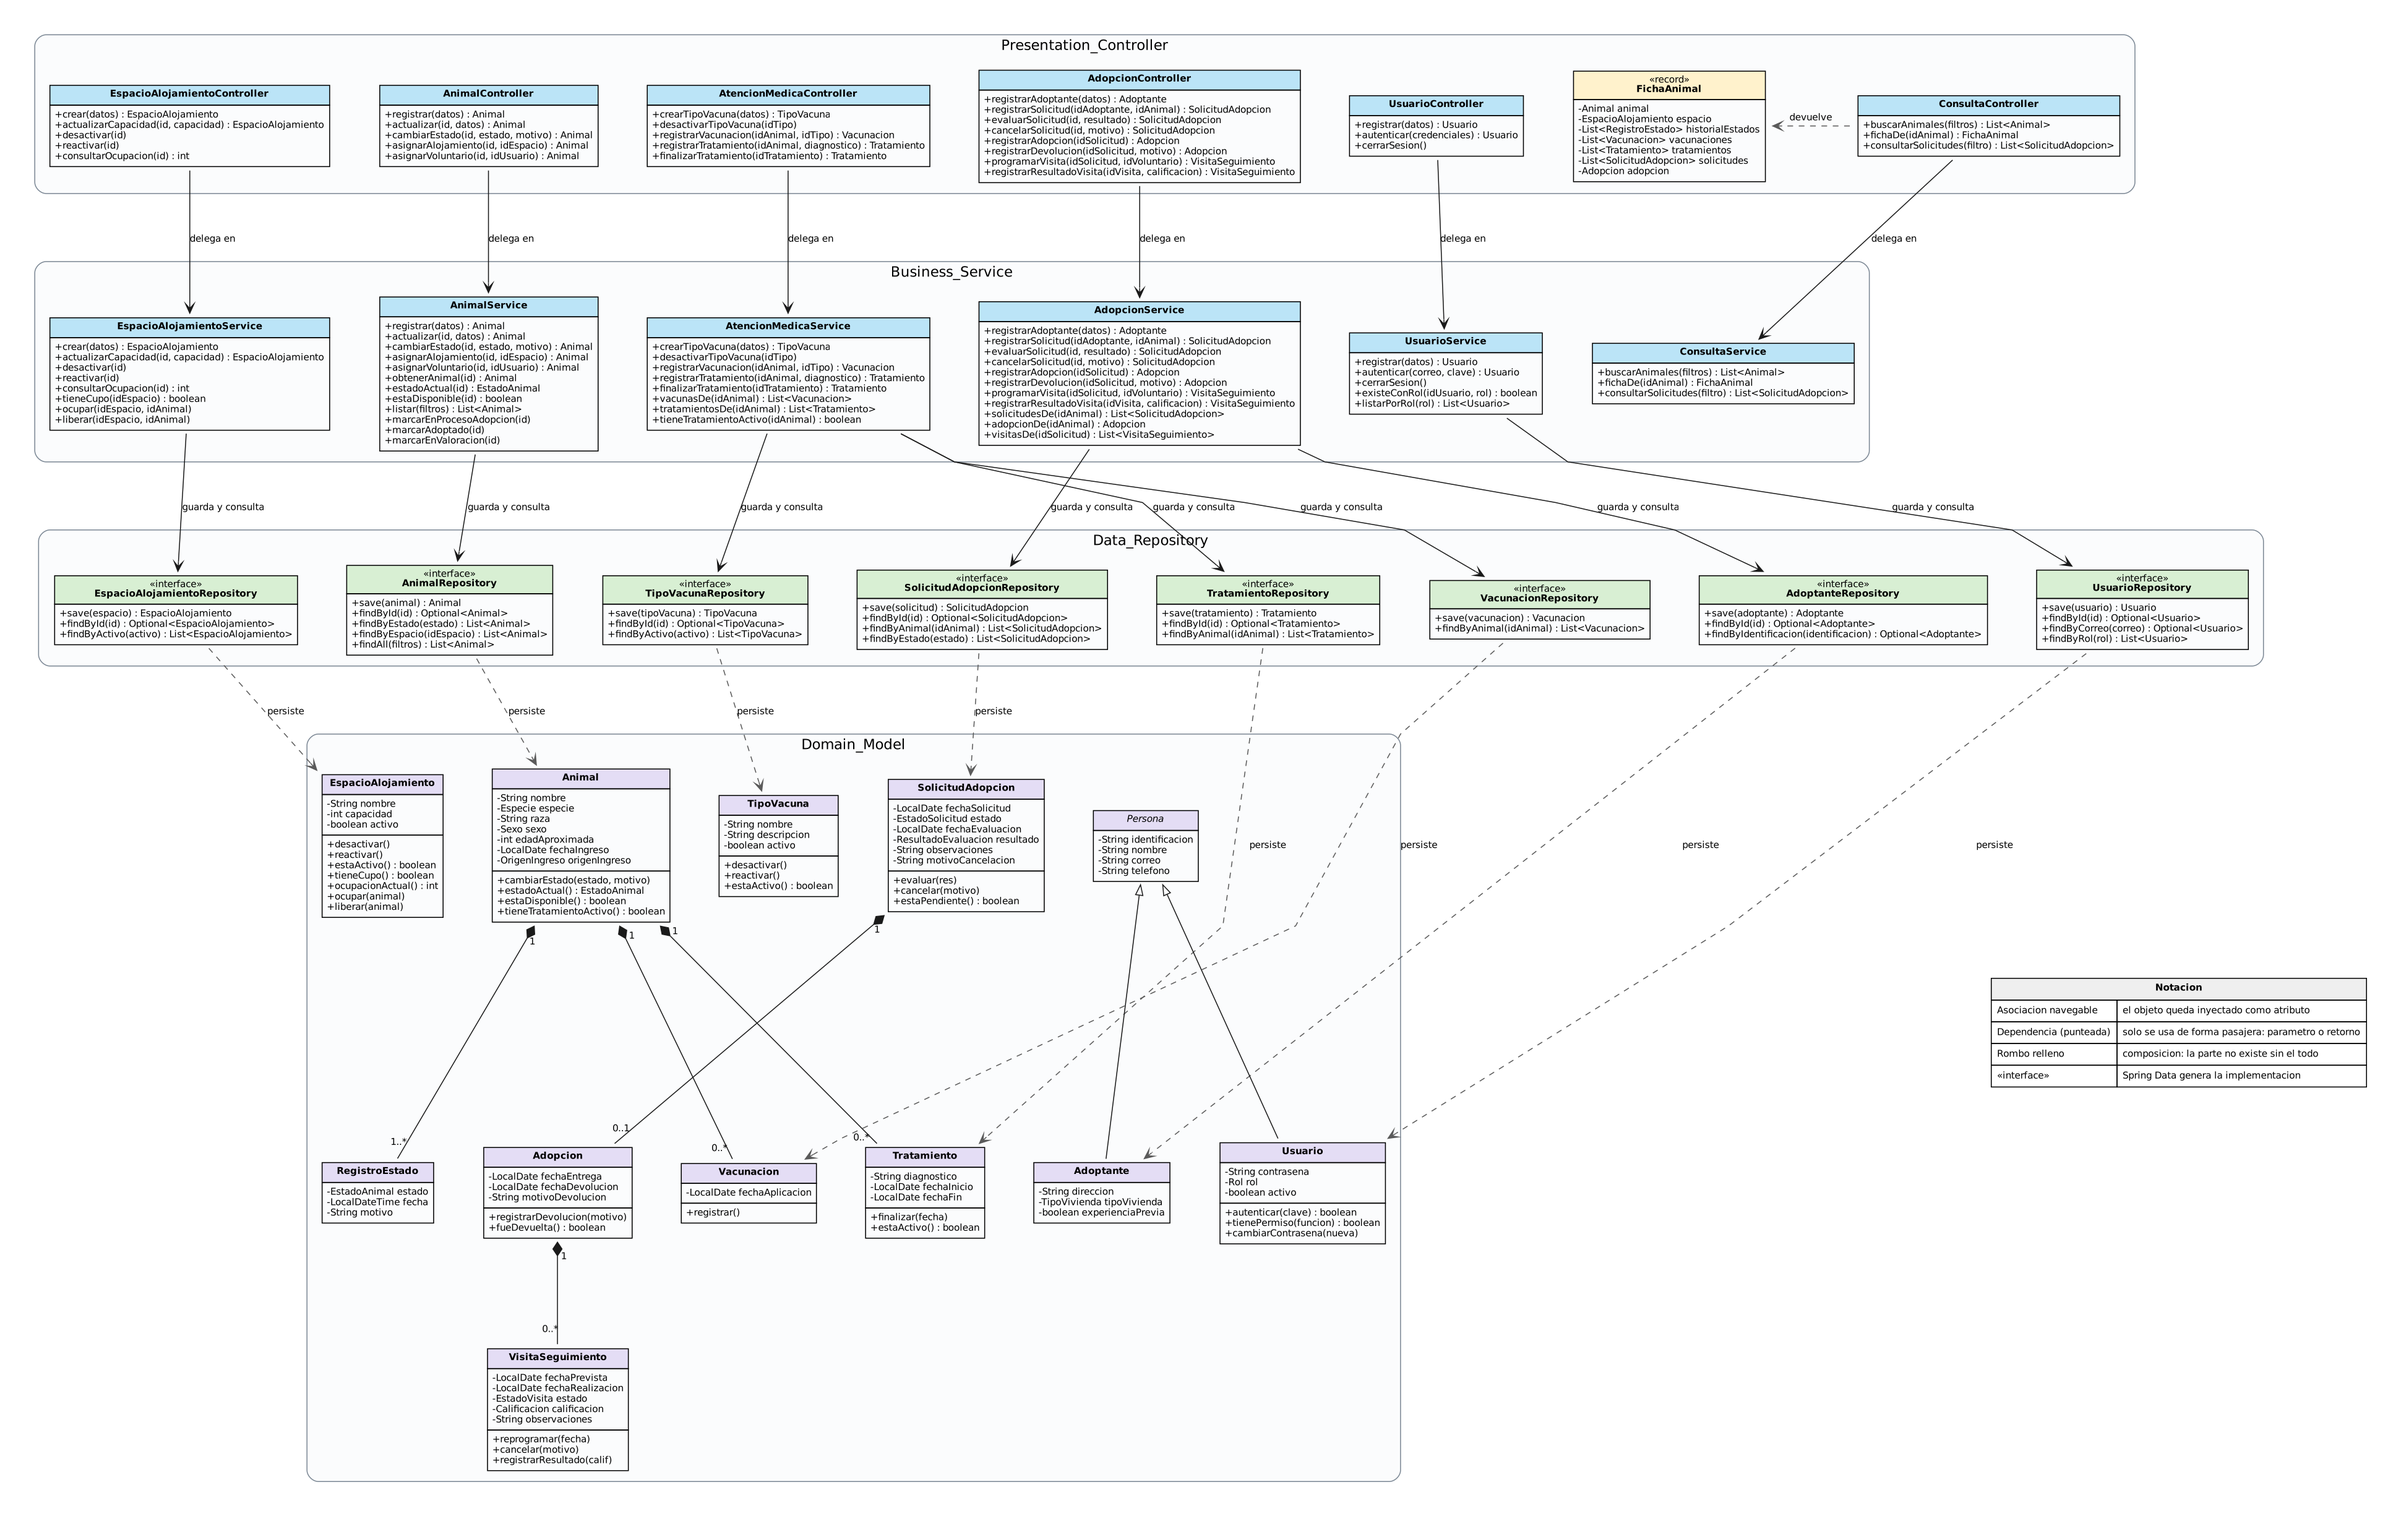
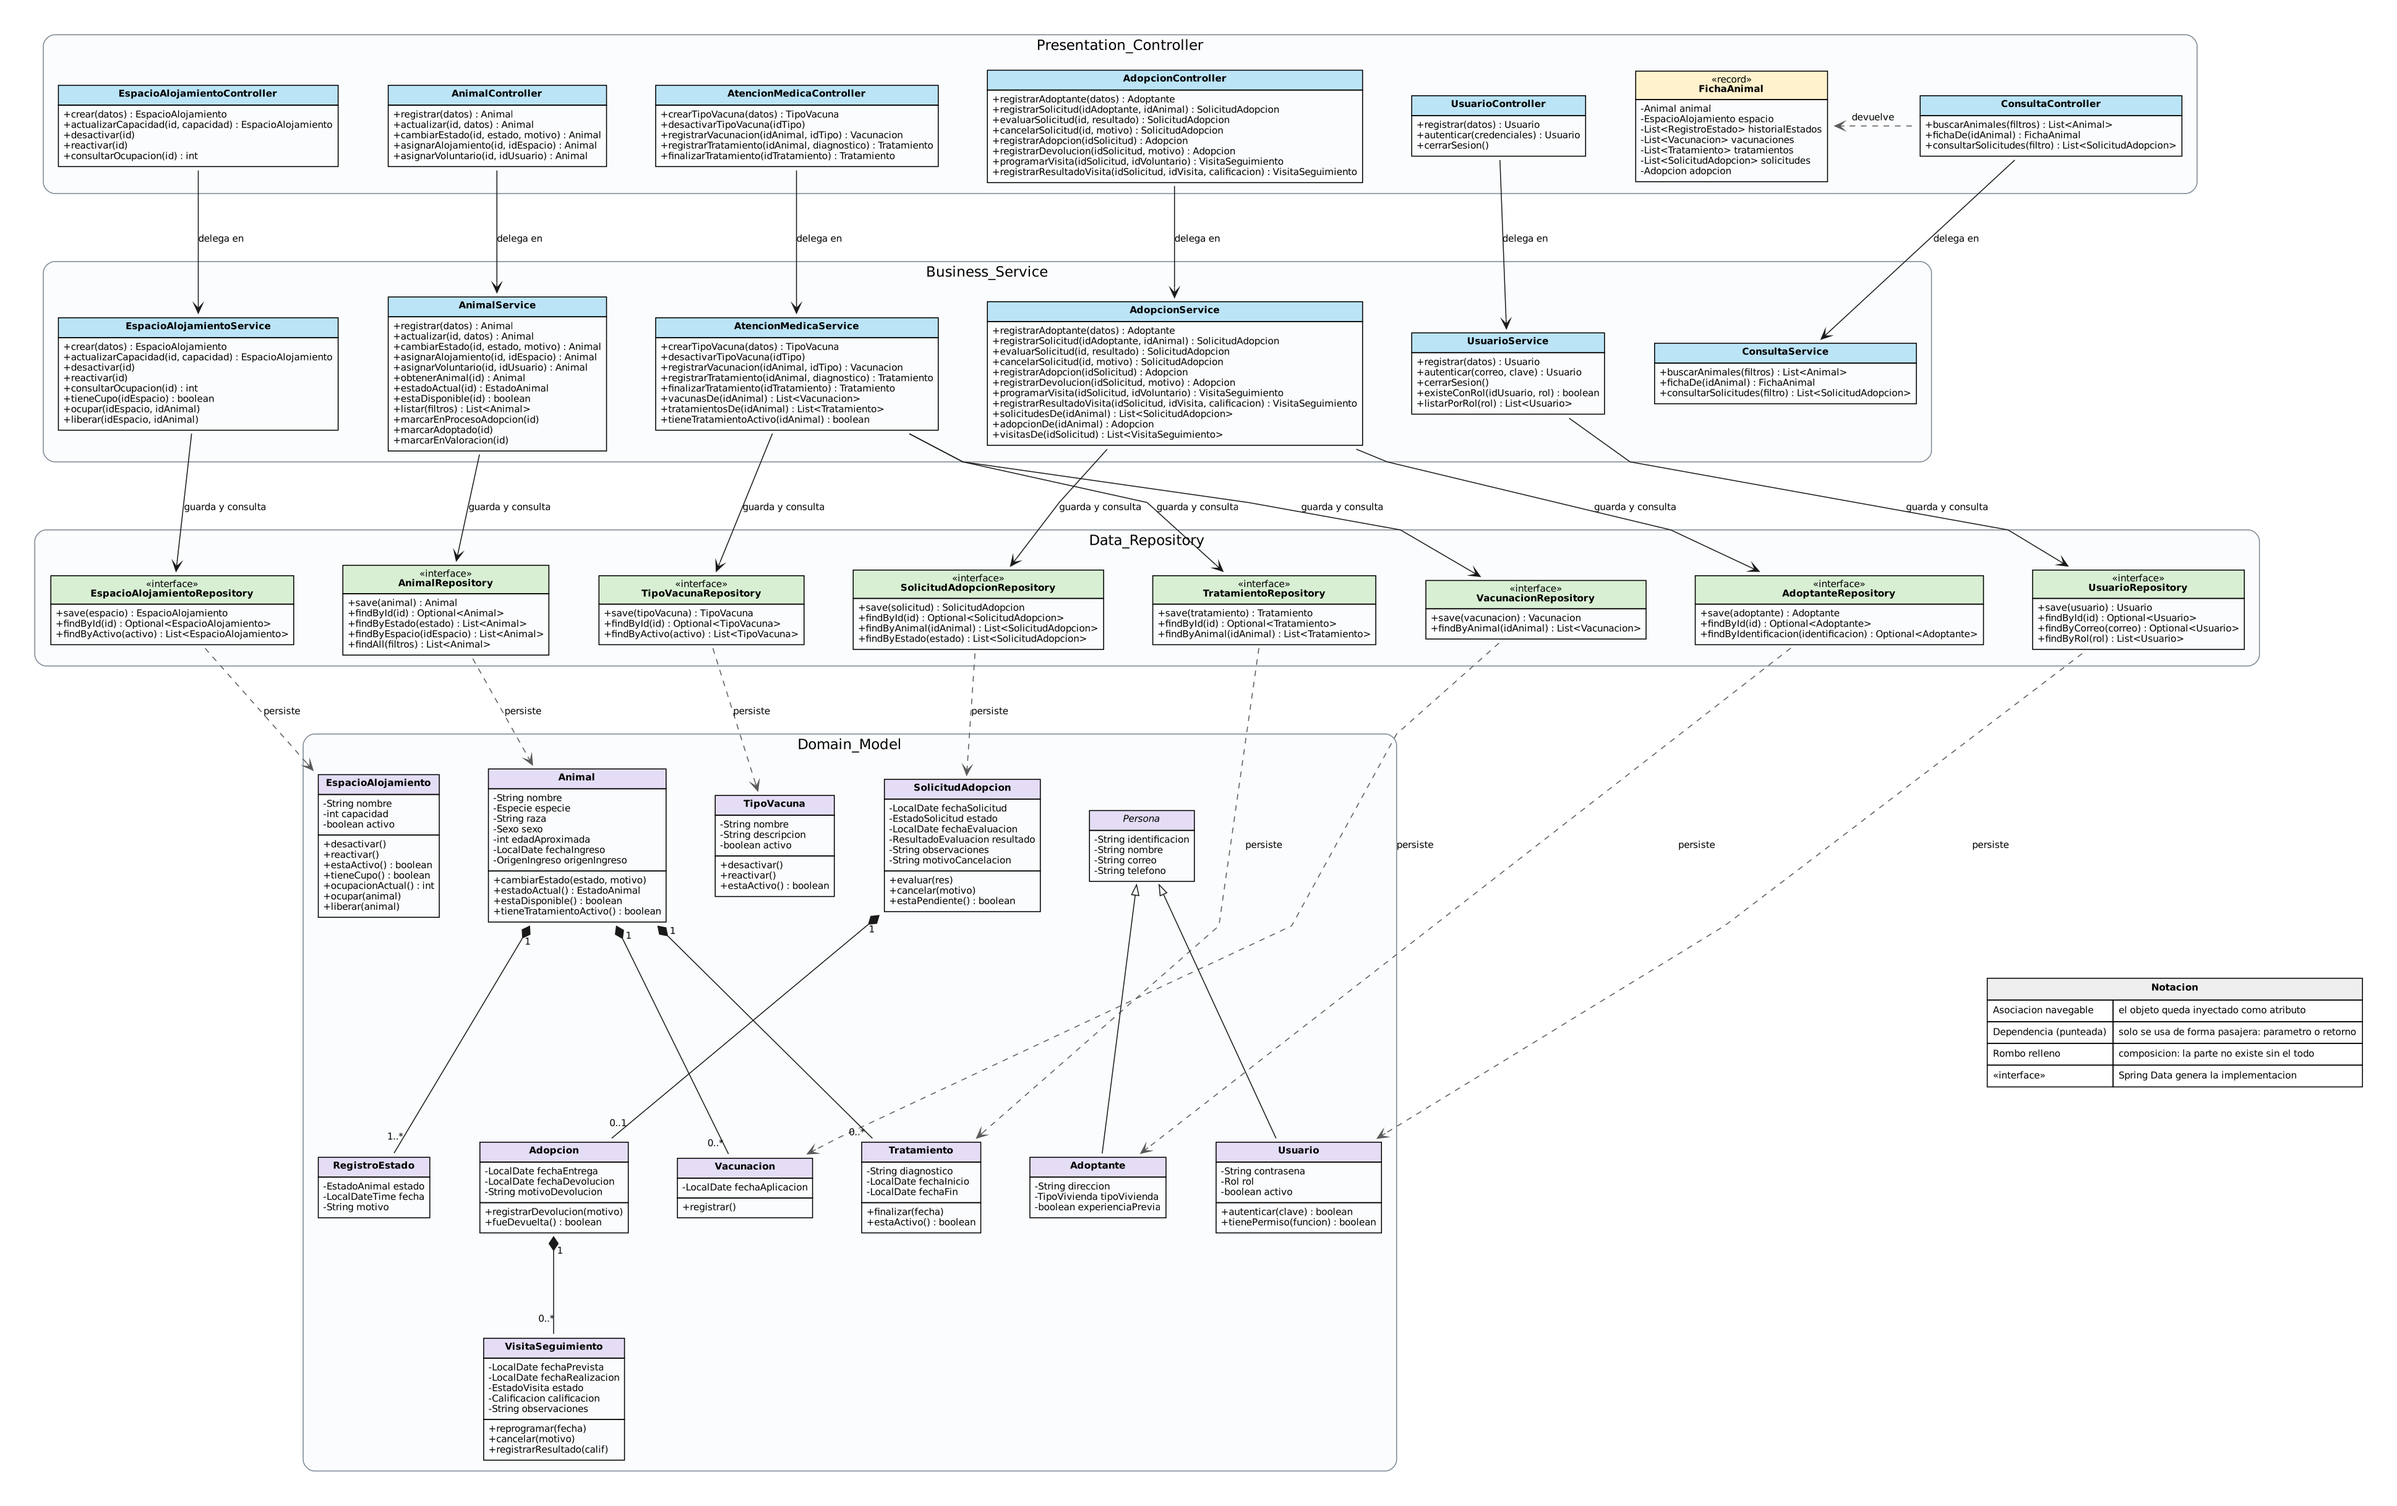
Corrige roles y rutas anidadas en la vista de desarrollo y registra los vacios de coherencia

diff --git a/docs/vista-desarrollo.md b/docs/vista-desarrollo.md
@@ -99,7 +99,7 @@ Cada operación de la fachada pública se expone como un endpoint. Las transicio
 | `GET` | `/api/espacios/{id}/ocupacion` | `EspacioAlojamientoController.consultarOcupacion` | `IAdministracionEspacios` | Coordinador | HU-06 |
 | `POST` | `/api/animales` | `AnimalController.registrar` | `IGestionAnimales` | Coordinador | HU-03 |
 | `PUT` | `/api/animales/{id}` | `AnimalController.actualizar` | `IGestionAnimales` | Coordinador | HU-03 |
-| `POST` | `/api/animales/{id}/estados` | `AnimalController.cambiarEstado` | `IGestionAnimales` | Coordinador | HU-04 |
+| `POST` | `/api/animales/{id}/estados` | `AnimalController.cambiarEstado` | `IGestionAnimales` | Coordinador, Veterinario | HU-04 |
 | `POST` | `/api/animales/{id}/alojamiento` | `AnimalController.asignarAlojamiento` | `IGestionAnimales` | Coordinador | HU-05 |
 | `POST` | `/api/animales/{id}/responsable` | `AnimalController.asignarVoluntario` | `IGestionAnimales` | Coordinador | HU-21 |
 | `POST` | `/api/tipos-vacuna` | `AtencionMedicaController.crearTipoVacuna` | `IAtencionMedica` | Veterinario | HU-09 |
@@ -114,10 +114,12 @@ Cada operación de la fachada pública se expone como un endpoint. Las transicio
 | `POST` | `/api/solicitudes/{id}/adopcion` | `AdopcionController.registrarAdopcion` | `IGestionAdopciones` | Coordinador | HU-17 |
 | `POST` | `/api/solicitudes/{id}/devolucion` | `AdopcionController.registrarDevolucion` | `IGestionAdopciones` | Coordinador | HU-20 |
 | `POST` | `/api/solicitudes/{id}/visitas` | `AdopcionController.programarVisita` | `IGestionAdopciones` | Coordinador | HU-18 |
-| `POST` | `/api/visitas/{id}/resultado` | `AdopcionController.registrarResultadoVisita` | `IGestionAdopciones` | Voluntario | HU-19 |
+| `POST` | `/api/solicitudes/{id}/visitas/{idVisita}/resultado` | `AdopcionController.registrarResultadoVisita` | `IGestionAdopciones` | Voluntario | HU-19 |
 | `GET` | `/api/animales` | `ConsultaController.buscarAnimales` | `IConsultas` | Todos | HU-07 |
-| `GET` | `/api/animales/{id}/ficha` | `ConsultaController.fichaDe` | `IConsultas` | Coordinador, Veterinario | HU-08 |
+| `GET` | `/api/animales/{id}/ficha` | `ConsultaController.fichaDe` | `IConsultas` | Todos | HU-08 |
 | `GET` | `/api/solicitudes` | `ConsultaController.consultarSolicitudes` | `IConsultas` | Coordinador | HU-16 |
+
+`VisitaSeguimiento` no tiene colección propia: va incrustada en la adopción, que a su vez va dentro de la solicitud. Por eso su ruta cuelga de `/api/solicitudes/{id}` y no existe `/api/visitas/{id}`. La ruta refleja la estructura de almacenamiento.
 
 Códigos de respuesta previstos: `200` para consultas y actualizaciones, `201` para creaciones, `204` para el cierre de sesión, `400` cuando la entrada está mal formada, `404` cuando el recurso no existe, `409` cuando la operación contradice una regla del dominio (adoptar un animal no disponible, alojar en un espacio sin cupo) y `500` para fallos no previstos.
 
@@ -139,5 +141,8 @@ No pertenecen a ninguna de las tres capas; las atraviesan. Se nombran aquí y no
 
 ## 9. Pendientes
 
+- **`ITransicionEstado` no cubre la transición *En proceso de adopción* → *Disponible*.** HU-15 exige que el animal vuelva a *Disponible* cuando el adoptante cancela una solicitud aprobada, pero la interfaz solo ofrece `marcarEnProcesoAdopcion`, `marcarAdoptado` y `marcarEnValoracion`. Falta `marcarDisponible` en la vista funcional, en `AnimalService` y en `Animal`.
+- **El rechazo automático de solicitudes pendientes (HU-04) no tiene a quién pedírselo.** Cuando un animal deja de estar *Disponible*, sus solicitudes pendientes pasan a *Rechazada* en ese mismo momento. Eso obliga a que Gestión de Animales llame a Gestión de Adopciones, que ya la llama a ella. Pendiente decidir entre añadir una interfaz `IBajaSolicitudes` y aceptar el ciclo, u orquestar las dos llamadas desde `AnimalController`.
+- **El voluntario no tiene forma de consultar sus visitas programadas.** El flujo 8 de la vista de contexto lo promete, pero `IConsultas` no tiene la operación y no hay endpoint que la exponga.
 - La paginación de `GET /api/animales` y `GET /api/solicitudes` no está definida. Con el volumen de un refugio pequeño puede esperar, pero debería resolverse antes de implementar.
 - El formato de los filtros de `buscarAnimales` (parámetros de consulta sueltos o un objeto de criterios) está sin decidir.
